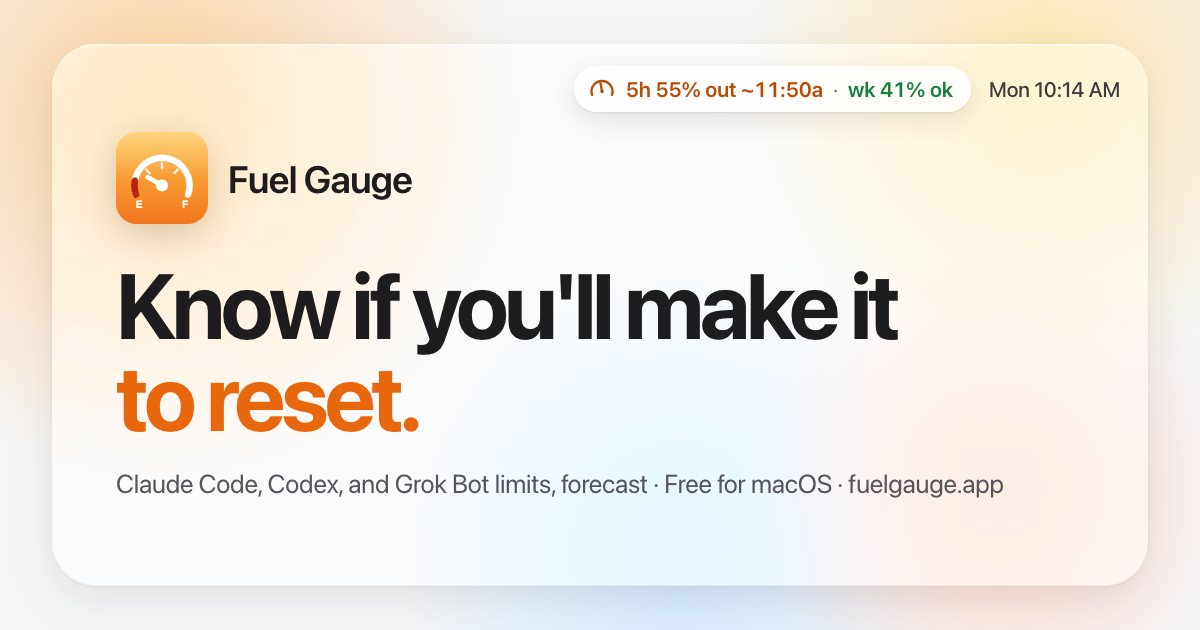
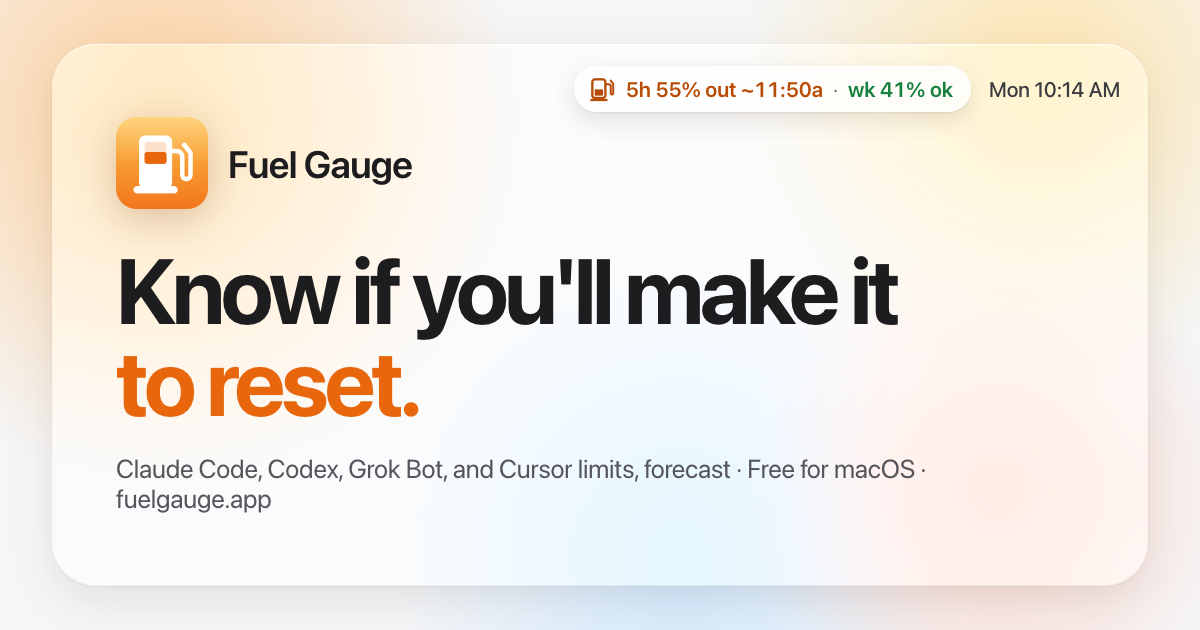
Bring site facts up to date: four tools, pump glyph, 3-hour weekly learning, new share image

diff --git a/site/codexbar-alternative.html b/site/codexbar-alternative.html
@@ -4,10 +4,10 @@
   <meta charset="utf-8">
   <meta name="viewport" content="width=device-width, initial-scale=1">
   <title>CodexBar alternative: Fuel Gauge, a free usage forecast for Mac</title>
-  <meta name="description" content="CodexBar shows usage for over 100 AI providers. Fuel Gauge is a free Mac alternative that forecasts whether your Claude Code, Codex, and Grok Bot limits last until reset.">
+  <meta name="description" content="CodexBar shows usage for over 100 AI providers. Fuel Gauge is a free Mac alternative that forecasts whether your Claude Code, Codex, Grok Bot, and Cursor limits last until reset.">
   <link rel="canonical" href="https://fuelgauge.app/codexbar-alternative">
   <meta property="og:title" content="CodexBar alternative: Fuel Gauge, a free usage forecast for Mac">
-  <meta property="og:description" content="CodexBar shows usage for over 100 AI providers. Fuel Gauge is a free Mac alternative that forecasts whether your Claude Code, Codex, and Grok Bot limits last until reset.">
+  <meta property="og:description" content="CodexBar shows usage for over 100 AI providers. Fuel Gauge is a free Mac alternative that forecasts whether your Claude Code, Codex, Grok Bot, and Cursor limits last until reset.">
   <meta property="og:type" content="website">
   <meta property="og:site_name" content="Fuel Gauge">
   <meta property="og:image" content="https://fuelgauge.app/images/og.png">
@@ -16,7 +16,7 @@
   <meta property="og:url" content="https://fuelgauge.app/codexbar-alternative">
   <meta name="twitter:card" content="summary_large_image">
   <meta name="twitter:title" content="CodexBar alternative: Fuel Gauge, a free usage forecast for Mac">
-  <meta name="twitter:description" content="CodexBar shows usage for over 100 AI providers. Fuel Gauge is a free Mac alternative that forecasts whether your Claude Code, Codex, and Grok Bot limits last until reset.">
+  <meta name="twitter:description" content="CodexBar shows usage for over 100 AI providers. Fuel Gauge is a free Mac alternative that forecasts whether your Claude Code, Codex, Grok Bot, and Cursor limits last until reset.">
   <meta name="theme-color" content="#fbe9d6" media="(prefers-color-scheme: light)">
   <meta name="theme-color" content="#1a120c" media="(prefers-color-scheme: dark)">
   <link rel="icon" href="/images/icon.svg" type="image/svg+xml">
@@ -47,7 +47,7 @@
       <div class="wrap narrow">
         <div class="eyebrow">CodexBar alternative</div>
         <h1>CodexBar shows how much you&#39;ve used. Fuel Gauge says if you&#39;ll <em>make it to reset.</em></h1>
-        <p class="lede">CodexBar is a good free menu bar app that tracks usage across a huge list of AI providers. Fuel Gauge does less, on purpose: three tools, and one answer for each.</p>
+        <p class="lede">CodexBar is a good free menu bar app that tracks usage across a huge list of AI providers. Fuel Gauge does less, on purpose: four tools, and one answer for each.</p>
         <div class="actions">
           <a class="btn" href="https://github.com/coreyhaines31/fuelgauge/releases/latest/download/FuelGauge.dmg"><svg viewBox="0 0 24 24" aria-hidden="true"><path d="M12 4v11m-5-5 5 5 5-5M5 20h14" fill="none" stroke="currentColor" stroke-width="2.2" stroke-linecap="round" stroke-linejoin="round"/></svg>Download free</a>
         <a class="btn-quiet" href="https://github.com/coreyhaines31/fuelgauge"><svg viewBox="0 0 16 16" fill="currentColor" aria-hidden="true"><path d="M8 0C3.58 0 0 3.58 0 8c0 3.54 2.29 6.53 5.47 7.59.4.07.55-.17.55-.38 0-.19-.01-.82-.01-1.49-2.01.37-2.53-.49-2.69-.94-.09-.23-.48-.94-.82-1.13-.28-.15-.68-.52-.01-.53.63-.01 1.08.58 1.23.82.72 1.21 1.87.87 2.33.66.07-.52.28-.87.51-1.07-1.78-.2-3.64-.89-3.64-3.95 0-.87.31-1.59.82-2.15-.08-.2-.36-1.02.08-2.12 0 0 .67-.21 2.2.82.64-.18 1.32-.27 2-.27.68 0 1.36.09 2 .27 1.53-1.04 2.2-.82 2.2-.82.44 1.1.16 1.92.08 2.12.51.56.82 1.27.82 2.15 0 3.07-1.87 3.75-3.65 3.95.29.25.54.73.54 1.48 0 1.07-.01 1.93-.01 2.2 0 .21.15.46.55.38A8.01 8.01 0 0 0 16 8c0-4.42-3.58-8-8-8z"/></svg>View source code</a>
@@ -100,7 +100,7 @@
         <ol class="steps">
           <li><b>Install Fuel Gauge.</b> <code>brew install --cask coreyhaines31/tap/fuelgauge</code>, or download the app from GitHub and drag it to Applications.</li>
           <li><b>Turn on the status line.</b> From the app, or with <code>fuelgauge install-statusline</code>. It keeps your existing status line and backs up <code>settings.json</code>.</li>
-          <li><b>Work for 10 minutes.</b> It needs about that many readings before it forecasts. Until then it says “Learning your pace.”</li>
+          <li><b>Keep working.</b> A 5-hour limit gets a forecast after about 10 minutes of readings, a weekly one after 3 hours. Until then it says “Learning your pace.”</li>
           <li><b>Keep CodexBar if you use its other providers.</b> The two don&#39;t conflict.</li>
         </ol>
             
@@ -111,7 +111,7 @@
         <div class="head center head-sm"><h2>Questions</h2></div>
         <div class="faq glass">
           <details><summary>Is CodexBar free?</summary><p>Yes. CodexBar is free and MIT licensed. Fuel Gauge is free too, with the source on GitHub under the FSL-1.1-MIT license.</p></details>
-          <details><summary>Does Fuel Gauge track as many providers as CodexBar?</summary><p>No. CodexBar lists over 100 providers. Fuel Gauge tracks Claude Code, Codex, and Grok Bot, and puts its effort into forecasting those.</p></details>
+          <details><summary>Does Fuel Gauge track as many providers as CodexBar?</summary><p>No. CodexBar lists over 100 providers. Fuel Gauge tracks Claude Code, Codex, Grok Bot, and Cursor, and puts its effort into forecasting those.</p></details>
           <details><summary>Why doesn&#x27;t Fuel Gauge use browser cookies?</summary><p>It reads only what Claude Code, Codex, and Grok Bot already save on your Mac. That means no browser cookies, no Full Disk Access, no keychain, and no sign-in.</p></details>
           <details><summary>Can I run both?</summary><p>Yes. They don&#x27;t conflict. Some people keep CodexBar for its breadth and Fuel Gauge for the forecast.</p></details>
         </div>
@@ -163,7 +163,7 @@
       });
     });
   </script>
-<script type="application/ld+json">{"@context": "https://schema.org", "@type": "FAQPage", "mainEntity": [{"@type": "Question", "name": "Is CodexBar free?", "acceptedAnswer": {"@type": "Answer", "text": "Yes. CodexBar is free and MIT licensed. Fuel Gauge is free too, with the source on GitHub under the FSL-1.1-MIT license."}}, {"@type": "Question", "name": "Does Fuel Gauge track as many providers as CodexBar?", "acceptedAnswer": {"@type": "Answer", "text": "No. CodexBar lists over 100 providers. Fuel Gauge tracks Claude Code, Codex, and Grok Bot, and puts its effort into forecasting those."}}, {"@type": "Question", "name": "Why doesn't Fuel Gauge use browser cookies?", "acceptedAnswer": {"@type": "Answer", "text": "It reads only what Claude Code, Codex, and Grok Bot already save on your Mac. That means no browser cookies, no Full Disk Access, no keychain, and no sign-in."}}, {"@type": "Question", "name": "Can I run both?", "acceptedAnswer": {"@type": "Answer", "text": "Yes. They don't conflict. Some people keep CodexBar for its breadth and Fuel Gauge for the forecast."}}]}</script>
+<script type="application/ld+json">{"@context": "https://schema.org", "@type": "FAQPage", "mainEntity": [{"@type": "Question", "name": "Is CodexBar free?", "acceptedAnswer": {"@type": "Answer", "text": "Yes. CodexBar is free and MIT licensed. Fuel Gauge is free too, with the source on GitHub under the FSL-1.1-MIT license."}}, {"@type": "Question", "name": "Does Fuel Gauge track as many providers as CodexBar?", "acceptedAnswer": {"@type": "Answer", "text": "No. CodexBar lists over 100 providers. Fuel Gauge tracks Claude Code, Codex, Grok Bot, and Cursor, and puts its effort into forecasting those."}}, {"@type": "Question", "name": "Why doesn't Fuel Gauge use browser cookies?", "acceptedAnswer": {"@type": "Answer", "text": "It reads only what Claude Code, Codex, and Grok Bot already save on your Mac. That means no browser cookies, no Full Disk Access, no keychain, and no sign-in."}}, {"@type": "Question", "name": "Can I run both?", "acceptedAnswer": {"@type": "Answer", "text": "Yes. They don't conflict. Some people keep CodexBar for its breadth and Fuel Gauge for the forecast."}}]}</script>
 <script type="application/ld+json">{"@context": "https://schema.org", "@type": "BreadcrumbList", "itemListElement": [{"@type": "ListItem", "position": 1, "name": "Fuel Gauge", "item": "https://fuelgauge.app/"}, {"@type": "ListItem", "position": 2, "name": "CodexBar alternative", "item": "https://fuelgauge.app/codexbar-alternative"}]}</script>
 </body>
 </html>

diff --git a/site/_build/og.html b/site/_build/og.html
@@ -42,7 +42,7 @@
     </div>
     <div class="brand"><img src="../images/icon.svg" alt="">Fuel Gauge</div>
     <h1>Know if you'll make it <em>to reset.</em></h1>
-    <div class="sub">Claude Code, Codex, and Grok Bot limits, forecast · Free for macOS · fuelgauge.app</div>
+    <div class="sub">Claude Code, Codex, Grok Bot, and Cursor limits, forecast · Free for macOS · fuelgauge.app</div>
   </div>
 </body>
 </html>

diff --git a/site/_build/pages.py b/site/_build/pages.py
@@ -9,16 +9,16 @@ COMPARISONS = [
         "slug": "codexbar-alternative",
         "competitor": "CodexBar",
         "title": "CodexBar alternative: Fuel Gauge, a free usage forecast for Mac",
-        "description": "CodexBar shows usage for over 100 AI providers. Fuel Gauge is a free Mac alternative that forecasts whether your Claude Code, Codex, and Grok Bot limits last until reset.",
+        "description": "CodexBar shows usage for over 100 AI providers. Fuel Gauge is a free Mac alternative that forecasts whether your Claude Code, Codex, Grok Bot, and Cursor limits last until reset.",
         "eyebrow": "CodexBar alternative",
         "h1": "CodexBar shows how much you&#39;ve used. Fuel Gauge says if you&#39;ll <em>make it to reset.</em>",
-        "lede": "CodexBar is a good free menu bar app that tracks usage across a huge list of AI providers. Fuel Gauge does less, on purpose: three tools, and one answer for each.",
+        "lede": "CodexBar is a good free menu bar app that tracks usage across a huge list of AI providers. Fuel Gauge does less, on purpose: four tools, and one answer for each.",
         "tldr": "Pick CodexBar if you use many AI providers and want them all in one menu. Pick Fuel Gauge if you live in Claude Code, Codex, or Grok Bot and want the verdict first, a forecast under your Claude Code prompt, and an exit code your agents can check. Fuel Gauge reads only local files.",
         "card_title": "CodexBar",
         "cta": "Know if you&#39;ll make it.",
         "faqs": [
             ("Is CodexBar free?", "Yes. CodexBar is free and MIT licensed. Fuel Gauge is free too, with the source on GitHub under the FSL-1.1-MIT license."),
-            ("Does Fuel Gauge track as many providers as CodexBar?", "No. CodexBar lists over 100 providers. Fuel Gauge tracks Claude Code, Codex, and Grok Bot, and puts its effort into forecasting those."),
+            ("Does Fuel Gauge track as many providers as CodexBar?", "No. CodexBar lists over 100 providers. Fuel Gauge tracks Claude Code, Codex, Grok Bot, and Cursor, and puts its effort into forecasting those."),
             ("Why doesn't Fuel Gauge use browser cookies?", "It reads only what Claude Code, Codex, and Grok Bot already save on your Mac. That means no browser cookies, no Full Disk Access, no keychain, and no sign-in."),
             ("Can I run both?", "Yes. They don't conflict. Some people keep CodexBar for its breadth and Fuel Gauge for the forecast."),
         ],
@@ -56,7 +56,7 @@ COMPARISONS = [
         <ol class="steps">
           <li><b>Install Fuel Gauge.</b> <code>brew install --cask coreyhaines31/tap/fuelgauge</code>, or download the app from GitHub and drag it to Applications.</li>
           <li><b>Turn on the status line.</b> From the app, or with <code>fuelgauge install-statusline</code>. It keeps your existing status line and backs up <code>settings.json</code>.</li>
-          <li><b>Work for 10 minutes.</b> It needs about that many readings before it forecasts. Until then it says “Learning your pace.”</li>
+          <li><b>Keep working.</b> A 5-hour limit gets a forecast after about 10 minutes of readings, a weekly one after 3 hours. Until then it says “Learning your pace.”</li>
           <li><b>Keep CodexBar if you use its other providers.</b> The two don&#39;t conflict.</li>
         </ol>
             """},

diff --git a/site/_build/render.py b/site/_build/render.py
@@ -304,11 +304,11 @@ def render_llms():
     compare = "\n".join(f"- [Fuel Gauge vs {p['competitor']}]({SITE}/{p['slug']}): {html.unescape(p['tldr'])}" for p in COMPARISONS)
     body = f"""# Fuel Gauge
 
-> Fuel Gauge is a free, source-available macOS menu bar app (macOS 14 Sonoma or later) that forecasts whether your Claude Code, Codex, and Grok Bot plan limits will last until they reset. It reads only what those tools already save on your Mac, and sends nothing anywhere.
+> Fuel Gauge is a free, source-available macOS menu bar app (macOS 14 Sonoma or later) that forecasts whether your Claude Code, Codex, Grok Bot, and Cursor plan limits will last until they reset. It reads only what those tools already save on your Mac, and sends nothing anywhere.
 
 - Install: `{BREW}`, or download {DOWNLOAD}
 - Source: {REPO} (FSL-1.1-MIT)
-- Limits tracked: Claude Code 5-hour and weekly, Codex weekly, Grok Bot weekly, and Cursor monthly (opt-in: asks cursor.com with the Cursor app's sign-in). Choose which in Settings › Tools.
+- Limits tracked: Claude Code 5-hour and weekly, Codex, Grok Bot weekly, and Cursor monthly (opt-in: asks cursor.com with the Cursor app's sign-in). Choose which in Settings › Tools.
 - How it forecasts: readings come from Claude Code's status line (every time Claude Code replies), Codex's session logs (`~/.codex/sessions`), and Grok Bot's local usage cache. Pace is the climb over the last hour for 5-hour windows and the last day for weekly ones. It needs about 10 minutes of readings first, and shows a range, not an exact minute. It's an estimate from recent pace, not a promise.
 - Command line: `fuelgauge status` prints the verdict for each limit and exits with code 2 when a limit is forecast to run out before it resets. `fuelgauge status --json` has the details. `fuelgauge history` shows the readings. `fuelgauge install-statusline` adds the forecast under Claude Code's prompt (keeping any existing status line and backing up settings.json), and `fuelgauge uninstall-statusline` removes it.
 - Install prompt for a coding agent: "{INSTALL_PROMPT}"
